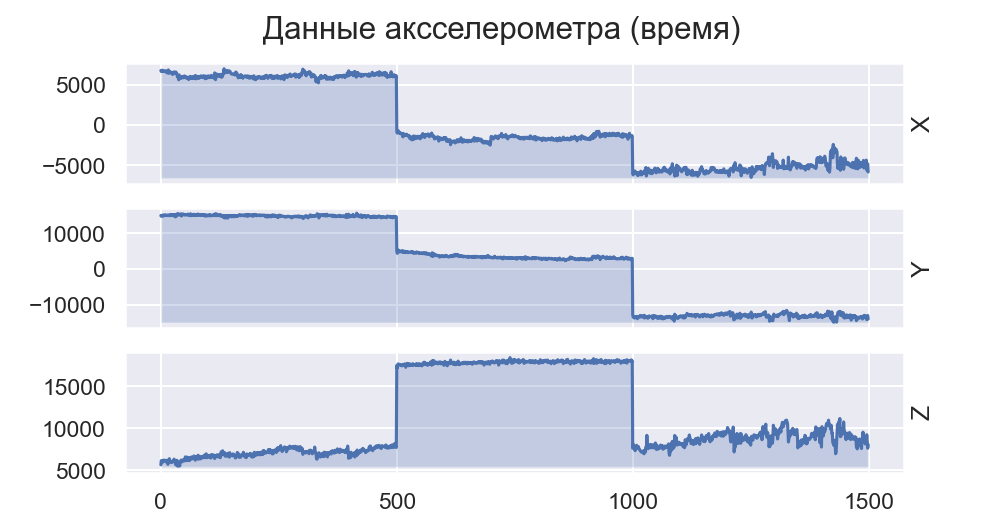
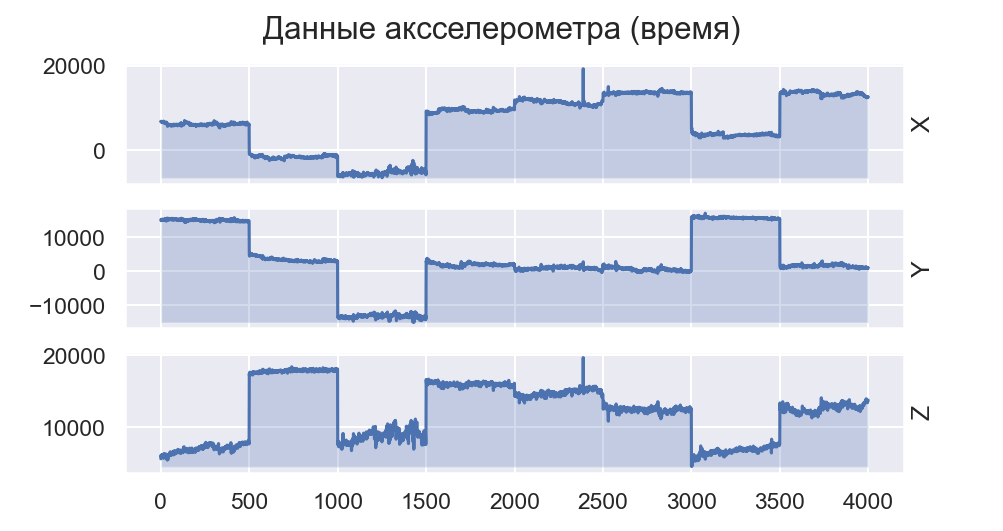
Added new symbols

diff --git a/python/ml_classification.py b/python/ml_classification.py
@@ -46,13 +46,14 @@ print(x1.shape, x2.shape)
 print(y1.shape, y2.shape)
 
 # LSVC Classifier
-LSVC = LinearSVC()
+LSVC = LinearSVC(max_iter=2000)
 LSVC.fit(x1, y1)
 y2_LSVC_model = LSVC.predict(x2)
 print(f'LSVC Accuracy : {accuracy_score(y2, y2_LSVC_model):.4f}')
 print(f'LSVC Recall : {recall_score(y2, y2_LSVC_model, average="micro"):.4f}')
 print(f'LSVC Precision : {precision_score(y2, y2_LSVC_model, average="micro"):.4f}')
 print(f'LSVC f1-score : {f1_score(y2, y2_LSVC_model, average="micro"):.4f}')
+
 
 if __name__ == '__main__':
     # Plots
@@ -67,8 +68,8 @@ if __name__ == '__main__':
     scatter = sns.scatterplot(ax=ax1, y='target', x='values', hue='ACCEL_OUT_H', data=dfm, s=100)
     scatter.set_title('Данные аксселерометра (классы)', fontsize=20, y=1.03)  # Set title of figure
 
-    ax1.yaxis.set_ticks([0, 1, 2])
-    ax1.yaxis.set_ticklabels(['Плохо', 'Хорошо', 'Расслаб.'], rotation=45)
+    ax1.yaxis.set_ticks([0, 1, 2, 3, 4, 5, 6, 7])
+    ax1.yaxis.set_ticklabels(['A', 'B', 'H', 'I', 'ОК', 'Плохо', 'Хорошо', 'Расслаб.'], rotation=45)
     ax1.set_ylabel(None)
     ax1.set_xlabel(None)
     h, _ = ax1.get_legend_handles_labels()
@@ -76,7 +77,7 @@ if __name__ == '__main__':
     plt.savefig('figs/accel-scatter.png')
 
     # Accelerometer's data plot (time)
-    time_array = np.arange(0, 1500, 1)
+    time_array = np.arange(0, 4000, 1)
     y1_acc = df.iloc[:, 0]
     y2_acc = df.iloc[:, 1]
     y3_acc = df.iloc[:, 2]
@@ -87,7 +88,7 @@ if __name__ == '__main__':
     lp2 = sns.lineplot(x=time_array, y=y2_acc, ax=axs2[1])
     lp3 = sns.lineplot(x=time_array, y=y3_acc, ax=axs2[2])
 
-    axs2[0].xaxis.set_ticks(np.arange(0, 1501, 500))
+    axs2[0].xaxis.set_ticks(np.arange(0, 4001, 500))
     axs2[0].yaxis.set_label_position('right')
     axs2[1].yaxis.set_label_position('right')
     axs2[2].yaxis.set_label_position('right')
@@ -111,21 +112,16 @@ if __name__ == '__main__':
     y2_KNN_model = KNN.predict(x2)
     print(f"KNN Accuracy : {accuracy_score(y2, y2_KNN_model):.4f}")
 
-    SVC = SVC()
-    SVC.fit(x1, y1)
-    y2_SVC_model = SVC.predict(x2)
-    print(f"SVC Accuracy : {accuracy_score(y2, y2_SVC_model):.4f}")
-
     # Plot confusion matrix
     cf_matrix = confusion_matrix(y2, y2_LSVC_model)
-    plt.figure(figsize=(17 * cm, 12 * cm), dpi=150)
+    plt.figure(figsize=(17 * cm, 13 * cm), dpi=150)
     htm = sns.heatmap(cf_matrix, annot=True, cmap='Blues', fmt='g',
-                      xticklabels=['Плохо', 'Хорошо', 'Расслаб.'],
-                      yticklabels=['Плохо', 'Хорошо', 'Расслаб.'])
-    htm.set_title('Матрица ошибок', fontsize=20, y=1.03)  # Set title of figure
+                      yticklabels=['A', 'B', 'H', 'I', 'ОК', 'Плохо', 'Хорошо', 'Расслаб.'])
+    htm.set_title('Матрица ошибок', fontsize=20, y=1.02)  # Set title of figure
 
     htm.set_ylabel('Настоящие значения')
     htm.set_xlabel('Предсказанные значения')
+    htm.set_xticklabels(labels=['A', 'B', 'H', 'I', 'ОК', 'Плохо', 'Хорошо', 'Расслаб.'], rotation=25)
     htm.yaxis.labelpad = 15
     plt.savefig('figs/confusion-matrix.png')
 

diff --git a/python/main.py b/python/main.py
@@ -3,26 +3,41 @@ from serial import Serial
 import time
 import pandas as pd
 
-ser = Serial('/dev/ttyUSB0', 9600)
-time.sleep(1)
-while True:
-    try:
-        glove_data = ser.readline().decode('utf-8').split(',')
-        data_array = [{'ACCEL_XOUT_H': glove_data[0],
-                       'ACCEL_YOUT_H': glove_data[1],
-                       'ACCEL_ZOUT_H': glove_data[2],
-                       'GYRO_XOUT_H': glove_data[3],
-                       'GYRO_YOUT_H': glove_data[4],
-                       'GYRO_ZOUT_H': glove_data[5],
-                       'FLEX1': glove_data[6],
-                       'FLEX2': glove_data[7],
-                       'FLEX3': glove_data[8],
-                       'FLEX4': glove_data[9],
-                       'CHECKSUM': glove_data[11].strip()}]
-        df_data = pd.DataFrame(data_array)
-        scaled_array = scaler.transform(df_data)
-        print(f'Symbol: {LSVC.predict(scaled_array)}')
-        time.sleep(0.4)
-    except KeyboardInterrupt:
-        print('Program is finished!')
-        break
+symbols = {0: 'A',
+           1: 'B',
+           2: 'H',
+           3: 'I',
+           4: 'OK',
+           5: 'Плохо',
+           6: 'Хорошо',
+           7: ''}
+
+
+def main():
+    ser = Serial('/dev/ttyUSB0', 9600)
+    time.sleep(1)
+    while True:
+        try:
+            glove_data = ser.readline().decode('utf-8').split(',')
+            data_array = [{'ACCEL_XOUT_H': glove_data[0],
+                           'ACCEL_YOUT_H': glove_data[1],
+                           'ACCEL_ZOUT_H': glove_data[2],
+                           'GYRO_XOUT_H': glove_data[3],
+                           'GYRO_YOUT_H': glove_data[4],
+                           'GYRO_ZOUT_H': glove_data[5],
+                           'FLEX1': glove_data[6],
+                           'FLEX2': glove_data[7],
+                           'FLEX3': glove_data[8],
+                           'FLEX4': glove_data[9],
+                           'CHECKSUM': glove_data[11].strip()}]
+            df_data = pd.DataFrame(data_array)
+            scaled_array = scaler.transform(df_data)
+            print(f'Symbol: {symbols[LSVC.predict(scaled_array)[0]]}')
+            time.sleep(0.4)
+        except KeyboardInterrupt:
+            print('Program is finished!')
+            break
+
+
+if __name__ == '__main__':
+    main()

diff --git a/python/create_dataset.py b/python/create_dataset.py
@@ -3,6 +3,7 @@ import time
 import os.path
 from serial import Serial
 
+"""
 file_exists = os.path.isfile('dataset/good-bad.csv')
 if not file_exists:
     file = open('dataset/good-bad.csv', mode='w')
@@ -12,6 +13,7 @@ if not file_exists:
     df.to_csv(file, index=False)
     file.close()
     print('File created successfully!')
+"""
 
 target = input('Enter symbol to record: ')
 data = []
